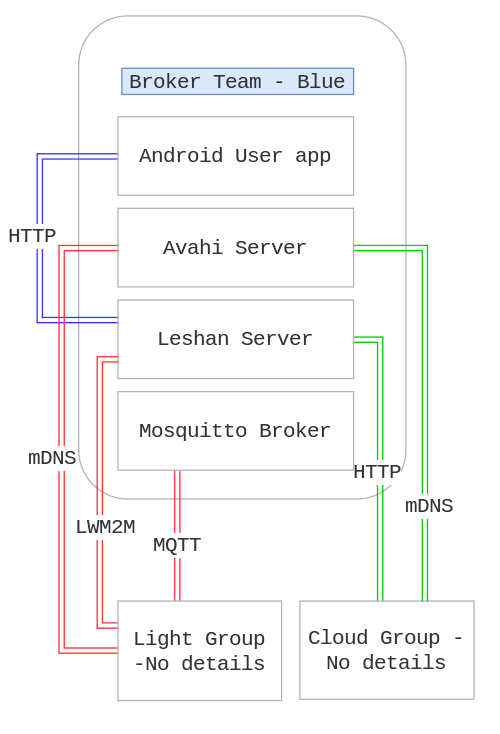
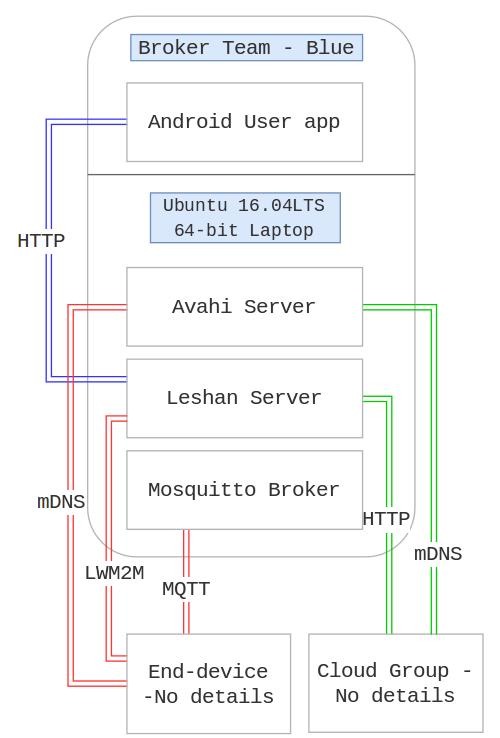
nighty

diff --git a/practical/report/bare_conf.tex b/practical/report/bare_conf.tex
@@ -1,5 +1,4 @@
 \documentclass[conference]{IEEEtran}
-\usepackage{cite}
 \usepackage[pdftex]{graphicx}
 \usepackage{amsmath}
 \usepackage{booktabs}
@@ -10,7 +9,10 @@
 	commentstyle=\color{red},
 	keywordstyle=\color{blue}
 }
-
+\usepackage{biblatex}
+\usepackage[colorlinks=true,allcolors=black]{hyperref}
+%\usepackage[backend=biber, bibencoding=utf8, style=ieee]{biblatex}
+\addbibresource{references.bib}
 
 \begin{document}
 \title{Practical Assignment\\ {\fontsize{13}{0}\selectfont 2IMN15: Internet of Things } \\ {\fontsize{13}{0}\selectfont \today }\\{ \fontsize{13}{0}\selectfont Group 14: Broker Team - Blue}}
@@ -33,19 +35,42 @@
 \end{abstract}
 
 
-\section{Introduction}
+\section{Introduction - Understanding the application}
 
-Creating a lighting system with IoT may sound an overkill, yet when the application and architecture is designed carefully it becomes an essential in everyday life. The main goa
+Creating a lighting system with an IoT architecture may sound like an overkill, yet when the application and architecture is designed carefully it becomes essential in everyday life. This system will be described as it will be tested in the final plug fest of this course. The light system is composed of; four lights, each with a user, a user application with a UI, a sensor to detect the users presence, a manager, his web manager UI. These are the most important physical components which allow for a complete system to be operated. There are three groups which develop this system as stated in Figure \ref{fig:fig1}.
+
+\begin{figure}[h]
+	\begin{center}
+		\includegraphics[width=1\linewidth]{img/design}
+		\caption{This Figure is from the lecture slides on IoT \cite{slides}}
+		\label{fig:fig1}
+	\end{center}
+\end{figure}
+
+Each team has their purpose. This is the report of the broker, thus will be written with that perspective. Two other teams complete the total assignment, they are cloud group and end-device group and will be references as that through out the report. To shortly describe the relationship with these groups and their purpose; The cloud group is basically responsible of bookkeeping of all information important for the system and the end-device group is responsible of maintaining lights and sensors in the systems which define end device. The end device will present light upon request of the user and be able to detect a user with a camera, sensor.
+
+There are four significant deliverables for the broker group. Each of them 
+\begin{enumerate}
+\item There is a user app for the user to control the light/s, which was selected to be a Android app for this showcase.
+\item mDNS discovery service. Avahi was chosen for this job and is built into linux or can be used with python for integration into a python project.
+\item LWM2M (Rest API) - a 'light weight machine to machine communication' with end device as well as maintaining a CoAP/HTTP server. Leshan was chosen for this task and is written in Java.
+\item MQTT broker which allows lights and sensors to communicate basic commands between one and other. Mosquitto was used for this and installed on linux.
+\end{enumerate}
+
+\textit{A laptop with Ubuntu 16.04 64-bit was used to run all these modules except the Android app which was run with a emulator and designed on a Windows computer.}
+
 
 
 
 \section{Architecture and Protocols}
 
+The architecture is somewhat predefined but many design options were left up to the teams. All communication and information will pass through the broker on its way to the endpoint. 
+
 \begin{figure}[h]
 	\begin{center}
 		\includegraphics[width=1\linewidth]{img/overview}
 		\caption{}
-		\label{fig:fig1}
+		\label{fig:fig2}
 	\end{center}
 \end{figure}
 \subsection{LWM2M, CoAP and HTTP with Leshan}
@@ -59,7 +84,7 @@ Leshan infrastructure, protocols used and relevance to project
 	\begin{center}
 		\includegraphics[width=1\linewidth]{img/androidapp}
 		\caption{}
-		\label{fig:fig2}
+		\label{fig:fig3}
 	\end{center}
 \end{figure}
 
@@ -69,6 +94,8 @@ Leshan infrastructure, protocols used and relevance to project
 \subsection{Initialization}
 
 \subsection{Use cases - post init}
+
+\subsection{Product Testing}
 
 \section{Discussion and results}
 
@@ -83,5 +110,7 @@ Leshan infrastructure, protocols used and relevance to project
 
 Code snippet
 \end{lstlisting}
+
+\printbibliography
 
 \end{document}
